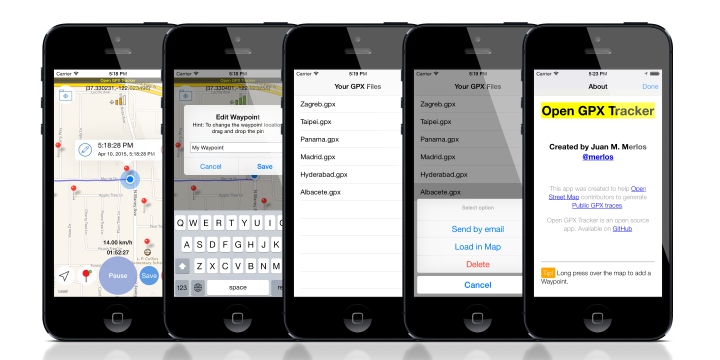
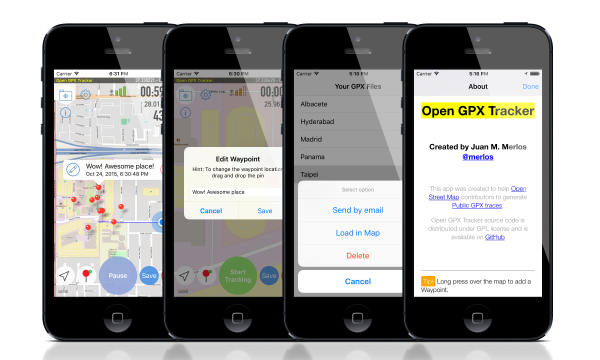
+ updated screenshots to v1.1

diff --git a/index.html b/index.html
@@ -61,6 +61,8 @@
 
 <ul>
   <li>Displays tracking information in a map</li>
+  <li>Displays current speed, distance and tracked time.</li>
+  <li>Supports multiple map sources (Apple Maps, OpenStreetMap, Mapquest, OpenCycleMap and CartoDB)
     <li> Pause / Resume tracking </li>
     <li> Add waypoint to user location</li>
     <li> Add waypoint to any place in the map with a long press</li>
@@ -69,10 +71,12 @@
     <li> Remove waypoints</li>
     <li> Send by email saved session (track + waypoints)</li>
     <li> Load on map a saved session and continue tracking</li>
-    <li> Speed</li>
-    <li> Tracked time </li>
+   
 </ul>  
 
+<p style="text-align:center">
+<img class="screenshot" src="images/multiple-data-sources-support.png" alt="open gpx tracker map sources support">
+</p>
 
 <h1>
 <a name="license" class="anchor" href="#license"><span class="octicon octicon-link"></span></a>License</h1>
